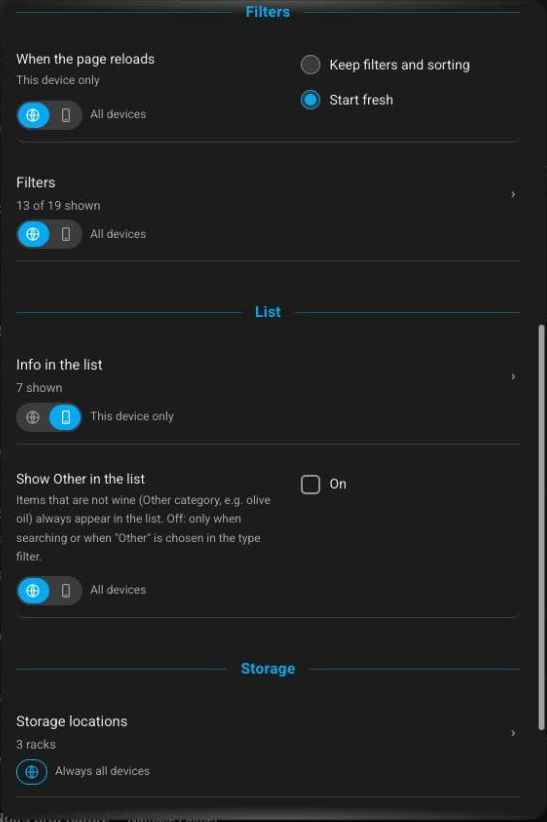
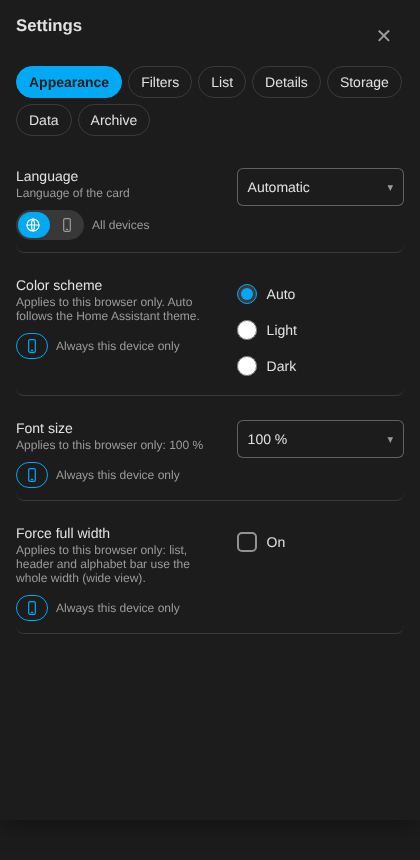
README: Archive, data fields, statistics and settings for 2.5.0, new screenshots
Claude-Session: https://claude.ai/code/session_019auwNnE4GW6RrCQvEMAkEU

diff --git a/README.md b/README.md
@@ -7,7 +7,7 @@ browse your whole cellar at a glance, filter it, see where each bottle lies and 
 > setup. It does what it says there, but if that is not your thing, please don't install it. Issues and ideas are welcome.
 
 <p align="center">
-  <img src="https://raw.githubusercontent.com/d3rb3rt/ha-cellarion-cellar-card/main/docs/list.png?v=2.4.1" alt="Inventory grouped by wine" width="820"><br>
+  <img src="https://raw.githubusercontent.com/d3rb3rt/ha-cellarion-cellar-card/main/docs/list.png?v=2.5.0" alt="Inventory grouped by wine" width="820"><br>
   <em>The inventory, grouped by wine, with search, filters and an A–Z index.</em>
 </p>
 
@@ -17,15 +17,15 @@ browse your whole cellar at a glance, filter it, see where each bottle lies and 
 </p>
 
 <p align="center">
-  <img src="https://raw.githubusercontent.com/d3rb3rt/ha-cellarion-cellar-card/main/docs/detail.png?v=2.4.1" alt="Bottle details with label image" width="380">
+  <img src="https://raw.githubusercontent.com/d3rb3rt/ha-cellarion-cellar-card/main/docs/detail.png?v=2.5.0" alt="Bottle details with label image" width="380">
   <img src="https://raw.githubusercontent.com/d3rb3rt/ha-cellarion-cellar-card/main/docs/phone.png?v=2.4.0" alt="Phone layout" width="300"><br>
-  <em>Bottle details with label image, drink window, profile and storage places · the same card on a phone.</em>
+  <em>Bottle details with label image, drunk bottles, drink window, profile and storage places · the same card on a phone.</em>
 </p>
 
 ## What you get
 
 - **Inventory grouped by wine** with vintages, bottle counts, price and the places each vintage is stored. Search, A–Z index,
-  sorting (wine or producer) and a flat view.
+  sorting (wine, producer or bottles) and a flat view.
 - **Several cellars**: with more than one cellar the cellar name in the header becomes a pulldown (one cellar, or *All
   cellars* together with a cellar tag on each place). The choice is remembered per device. Settings and filters are shared by all cellars.
 - **Filters** with live counts: type, grape, region, appellation, producer, maturity, vintage, price, storage rack and
@@ -34,7 +34,9 @@ browse your whole cellar at a glance, filter it, see where each bottle lies and 
   values in every filter and combine them the way you need.
 - **Bottle details**: your data (price, purchase, merchant, note, personal fields), the register profile (body, acidity,
   flavours, food pairings, description), a drink-window bar with today's position, the label image and the storage places
-  with a count per place.
+  with a count per place. Which data fields appear in the list and in the details is set separately, field by field;
+  with *info texts* a field can open a text of your own.
+- **Archive**: the wines you have drunk, gifted or sold, with the same facts as the stock, in violet (see *Archive* below).
 - **Rack view**: a small picture of the rack shows where the bottles lie; tap it for the full rack with every shelf and
   slot, and take a bottle out right from there (see below).
 - **Take out** from a fixed bar in the details: say why (drunk, gifted, sold, other), confirm, and Cellarion marks the
@@ -57,6 +59,8 @@ It complements the official [ha-cellarion](https://github.com/jagduvi1/ha-cellar
 - A Cellarion account on cellarion.app, or a self-hosted server on **v1.275 or newer**. The inventory is read with a single
   request to `GET /api/inventory`; an unchanged inventory answers `304`, so keeping the card up to date costs almost
   nothing. Older servers do not have that endpoint.
+- For the **Archive** the card reads `GET /api/inventory?include=consumed`, which needs Cellarion **1.294 or newer**. On an
+  older server everything else works; the card then shows the stock only.
 
 ## Install
 
@@ -99,7 +103,9 @@ Update automations and scripts that call the old services or the old sensor by h
 ## Using the card
 
 - **Search** looks in name, producer, vintage, region, country, appellation, classification, grapes, storage place, type
-  and your personal fields. Several words must all match.
+  and your personal fields. Several words must all match; a word matches at the start of a word, and the whole phrase is
+  tried first. Enter opens the only remaining hit. If the stock has few hits, matching archive wines are added (see
+  *Archive* in the settings).
 - **Filters**: tap a filter chip to pick a value. The counts in the dropdown show wines, vintages and bottles. A filter
   with nothing to choose right now stays in place, greyed out. The *Selected* line at the top of a pick list has an x to
   clear that filter. Filters you moved behind the **...** button are listed there. The classification is split into
@@ -148,28 +154,72 @@ On phones the list shows just the rack name as the storage place; the exact plac
   <em>The rack view: this bottle solid, other bottles of the vintage tinted.</em>
 </p>
 
+## Archive
+
+The **Archive** switch in the filter bar replaces the stock with the wines that have no bottle left. They are shown in
+violet with the same information as the stock rows (region, appellation, classification, price, vintage) and the number
+of drunk bottles. All filters, the search and the sorting work as usual.
+
+- **Details**: the bar above the facts lists the other vintages of the wine, violet when a vintage is completely drunk.
+  The **drunk** mark opens a small overlay with the date and the notes of the finished bottles. Identical entries are
+  merged into one line with a count; the newest three are shown, the rest sits behind a button.
+- **Search**: a text search also shows archive wines when the stock has fewer hits than the number set under
+  *Archive* in the settings (0 = only when nothing is found in stock).
+- **One request**: stock and archive come from one call, `GET /api/inventory?include=consumed`. Drunk, gifted and sold
+  bottles arrive in the same format as the stock, with wine facts and your personal fields, so reloading stays cheap.
+  This needs Cellarion 1.294 or newer; older servers answer with an error and the card shows the stock only.
+
+<p align="center">
+  <img src="https://raw.githubusercontent.com/d3rb3rt/ha-cellarion-cellar-card/main/docs/archive.png?v=2.5.0" alt="The archive: wines without a bottle left" width="420">
+  <img src="https://raw.githubusercontent.com/d3rb3rt/ha-cellarion-cellar-card/main/docs/archive-detail.png?v=2.5.0" alt="Details of a wine with the list of its drunk bottles" width="380"><br>
+  <em>The archive in the list · the drunk bottles of a wine, with date and note.</em>
+</p>
+
+## Data fields and info texts
+
+Every fact the card shows is a **data field**: the Cellarion fields (country, region, appellation, grapes, classification
+kinds, price, purchase, merchant, …) and every personal field you keep in Cellarion.
+
+- **List and details are set separately.** Under *List* and *Details* in the settings each field can be shown, put
+  behind the "..." button (details) or switched off, with its own order for each view.
+- **Every row of the details can be switched off**: the details show one block of rows that you can sort and hide, and
+  the header and the info tabs follow the same order.
+- **Info texts**: a personal field named `info:<attribute>` (for example `info:producer`, `info:region`, or the display
+  name of a field of your own) makes the value of that data field tappable. It opens its text in an overlay; the order of
+  the tabs follows the order of the data fields in the settings.
+- New installations start with sensible defaults for filters, list and details.
+
+<p align="center">
+  <img src="https://raw.githubusercontent.com/d3rb3rt/ha-cellarion-cellar-card/main/docs/info.png?v=2.5.0" alt="Info text of a producer" width="380">
+  <img src="https://raw.githubusercontent.com/d3rb3rt/ha-cellarion-cellar-card/main/docs/settings-details.png?v=2.5.0" alt="Data fields of the details in the settings" width="380"><br>
+  <em>The info text behind the producer · the data fields of the details, each with On, "..." or Off and its own order.</em>
+</p>
+
 ## Statistics
 
-The chart icon in the card header opens an overview of the cellar: bottles, wines, countries, producers, oldest vintage,
-cellar value, bottles per type and the top country, producer, region and grape.
+The chart icon in the card header opens an overview of the cellar, with the tabs **Total**, **Stock** and **Drunk**:
+bottles, wines, countries, producers, oldest vintage, value (purchase prices), bottles per type and the top country,
+producer, region and grape. *Drunk* adds the wines and producers with nothing left in stock and a list of your most
+drunk wines that are gone, as re-buy candidates.
 
 - **Everything in the overview is linked.** Tap a **type bar** (or a similar row) to close the overview and filter the list
   by it, for example only the sparkling wines.
-- Tap a **tile** (wines, countries, producers, oldest vintage, cellar value, top country, …) to see that breakdown in more
-  detail, for example the producers with their bottle counts. Tap an entry there to filter the list by it.
+- Tap a **tile** (wines, producers, value, vintages, …) to see that breakdown in more detail, for example the producers
+  with their bottle counts. Tap an entry there to filter the list by it.
 - The overview counts what the list shows: when *Other* items (not wine) are hidden from the list (see *Show Other in the
   list* under Settings), the overview leaves them out too, so the numbers match the list.
 
 <p align="center">
-  <img src="https://raw.githubusercontent.com/d3rb3rt/ha-cellarion-cellar-card/main/docs/statistics.png?v=1.0.0" alt="Statistics overview" width="340">
-  <img src="https://raw.githubusercontent.com/d3rb3rt/ha-cellarion-cellar-card/main/docs/statistics-detail.png?v=1.0.0" alt="Statistics detail: producers with bottle counts" width="340"><br>
-  <em>The overview · the detail view behind the "Producers" tile.</em>
+  <img src="https://raw.githubusercontent.com/d3rb3rt/ha-cellarion-cellar-card/main/docs/statistics.png?v=2.5.0" alt="Statistics overview, total" width="340">
+  <img src="https://raw.githubusercontent.com/d3rb3rt/ha-cellarion-cellar-card/main/docs/statistics-drunk.png?v=2.5.0" alt="Statistics of the drunk bottles" width="340"><br>
+  <em>The overview of stock and archive together · the Drunk tab.</em>
 </p>
 
 ## Settings
 
-Tap the gear in the card. Where a setting has the globe/phone switch, it can apply to **all devices** (stored in Home
-Assistant) or to **this device only** (stored in the browser).
+Tap the gear in the card. The groups are reached with the pills at the top; the header stays in place while you scroll.
+Where a setting has the globe/phone switch, it can apply to **all devices** (stored in Home Assistant) or to **this device
+only** (stored in the browser).
 
 **Appearance**
 - *Language*: automatic (the language of the Home Assistant user), English or German.
@@ -182,12 +232,18 @@ Assistant) or to **this device only** (stored in the browser).
 - *Filters*: every filter has a switch with three states: **On** (in the filter row), **...** (behind the "..." button)
   or **Off** (not offered at all). Drag to reorder; your own Cellarion data fields appear here too. The filter mode
   pulldown is in the list as well; it always sits at the end of the row, before "...".
+- *Price bands*: the upper limits of the price filter, ascending, separated by commas (for example `15, 20, 30`). Empty =
+  no price filter. Prices use the currency of your bottles.
 
 **List**
-- *Info in the list*: which facts appear under each wine name, and in which order.
+- *Data fields in the list*: which facts appear under each wine name, and in which order.
 - *Show Other in the list*: drinks that are not wine (beer, cider, …) live in Cellarion's
   [Other category](https://cellarion.app/blog/other-category). They are always found by search; this switch also lists
   them normally.
+
+**Details**
+- *Data fields in the details*: which rows appear in "My data", behind the expand arrow or not at all, in which order. See
+  *Data fields and info texts*.
 
 **Storage**
 - *Storage locations*, per rack: count shelves from the top or the bottom, and show the position as left/middle/right, as
@@ -197,13 +253,19 @@ Assistant) or to **this device only** (stored in the browser).
 - *Edit producers*: choose the word a producer is sorted by (for example "Haag" for "Fritz Haag", or "Clüsserath" for
   "Ansgar Clüsserath"). It drives the producer sorting and the A–Z index. Tap a word to set it, tap again to undo.
 
+**Archive**
+- *Archive hits in the search*: a text search also shows archive wines when the stock has fewer hits than this number
+  (0 = only when nothing is found in stock).
+
+The list can also be sorted by **bottles (most first)**.
+
 <p align="center">
-  <img src="https://raw.githubusercontent.com/d3rb3rt/ha-cellarion-cellar-card/main/docs/settings.png?v=1.0.0" alt="Settings" width="360">
+  <img src="https://raw.githubusercontent.com/d3rb3rt/ha-cellarion-cellar-card/main/docs/settings.png?v=2.5.0" alt="Settings" width="360">
   <img src="https://raw.githubusercontent.com/d3rb3rt/ha-cellarion-cellar-card/main/docs/producers.png?v=1.0.0" alt="Edit producers" width="360">
 </p>
 
 <p align="center">
-  <img src="https://raw.githubusercontent.com/d3rb3rt/ha-cellarion-cellar-card/main/docs/settings-filters.png?v=2.4.1" alt="Filter settings with the On, ... and Off switch" width="420"><br>
+  <img src="https://raw.githubusercontent.com/d3rb3rt/ha-cellarion-cellar-card/main/docs/settings-filters.png?v=2.5.0" alt="Filter settings with the On, ... and Off switch" width="420"><br>
   <em>Filter settings: every filter is On, behind "..." or Off; the filter mode is the last row. Names in [square brackets] are your own data fields from Cellarion.</em>
 </p>
 
